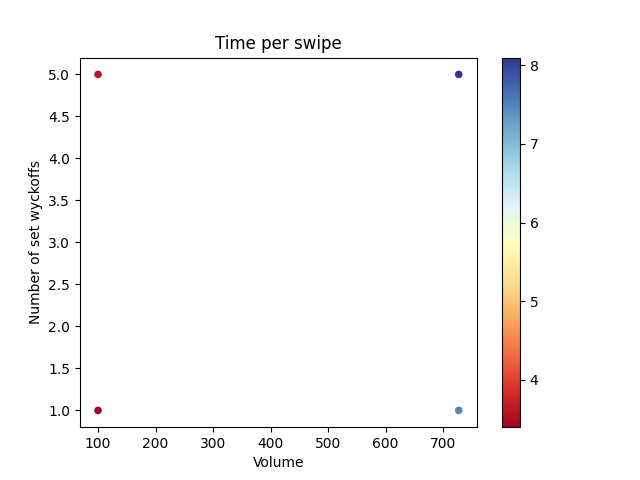
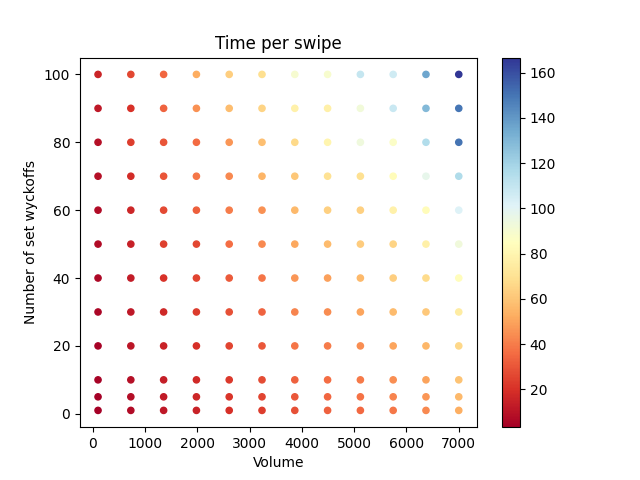
Continue work on set wyckoffs analysis

diff --git a/dataset_simulations/random_simulation_utils.py b/dataset_simulations/random_simulation_utils.py
@@ -4,10 +4,9 @@ import numpy as np
 import random
 from pyxtal.symmetry import Group
 import time
-from pymatgen.vis.structure_vtk import StructureVis
-from pyxtal.operations import filtered_coords
 import pickle
-import os
+from dataset_simulations.simulation import Simulation
+from pymatgen.io.cif import CifParser
 
 # import warnings
 # with warnings.catch_warnings():
@@ -306,10 +305,75 @@ def generate_structures(spacegroup_number, N, max_NO_elements=10, seed=-1, do_di
 
     return result
 
+def analyse_set_wyckoffs():
+
+    icsd_sim = Simulation(
+        "/home/henrik/Dokumente/Big_Files/ICSD/ICSD_data_from_API.csv",
+        "/home/henrik/Dokumente/Big_Files/ICSD/cif/",
+    )
+
+    counts_per_spg_per_wyckoff = {}
+
+    counter_per_element = {}
+
+    # pre-process the symmetry groups:
+
+    for spg_number in range(1, 231):
+        group = Group(spg_number, dim=3)
+        names = [(str(x.multiplicity) + x.letter) for x in group]
+
+        counts_per_spg_per_wyckoff[spg_number] = {}
+        for name in names:
+            counts_per_spg_per_wyckoff[spg_number][name] = 0
+
+    for i, path in enumerate(icsd_sim.icsd_paths):
+
+        try: 
+
+            #spg_number = icsd_sim.get_space_group_number(icsd_sim.icsd_ids[i])
+
+            parser = CifParser(path)
+            crystals = parser.get_structures()
+
+            if len(crystals) == 0:
+                continue
+
+            crystal = crystals[0]
+
+            struc = pyxtal()
+            struc.from_seed(crystal)
+
+        except Exception as ex:
+
+            print(f"Error reading {path}:")
+            print(ex)
+
+            continue
+
+        #if spg_number != struc.group.number:
+        #
+        #   print("ohoh")
+
+        spg_number = struc.group.number
+
+        for site in struc.atom_sites:
+            specie_str = str(site.specie)
+            if specie_str in counter_per_element:
+                counter_per_element[specie_str] += 1
+            else:
+                counter_per_element[specie_str] = 0
+
+            name = str(site.wp.multiplicity) + site.wp.letter
+            counts_per_spg_per_wyckoff[spg_number][name] += 1 
+
+    print()
 
 if __name__ == "__main__":
 
     if True:
+        analyse_set_wyckoffs()
+
+    if False:
 
         NO_chosen_elements = 50
 

diff --git a/dataset_simulations/core/quick_simulation.py b/dataset_simulations/core/quick_simulation.py
@@ -559,7 +559,7 @@ def time_swipe_with_fixed_volume(volume, NO_wyckoffs):
     start = time.time()
     for i in range(0, repeat):
 
-        get_random_xy_patterns(
+        patterns, labels = get_random_xy_patterns(
             range(1, 231, skip), # just to get something that is somehow representative
             1,
             1.207930,
@@ -572,6 +572,10 @@ def time_swipe_with_fixed_volume(volume, NO_wyckoffs):
             fixed_volume=volume,
             do_merge_checks=False
         )
+
+        #plt.plot(patterns[0])
+        #plt.show()
+
     end = time.time()
 
     timings_simulation = np.array(timings_simulation_pattern) + np.array(timings_simulation_smeared)
@@ -675,8 +679,8 @@ if __name__ == "__main__":
         NOs_wyckoffs = [1,5,10,20,30,40,50,60,70,80,90,100]
 
         # for testing 
-        #volumes = volumes[0:2]
-        #NOs_wyckoffs = NOs_wyckoffs[0:2]
+        #volumes = volumes[:1]
+        #NOs_wyckoffs = NOs_wyckoffs[:1]
 
         xs = [] # volumes
         ys = [] # NO_wyckoffs
